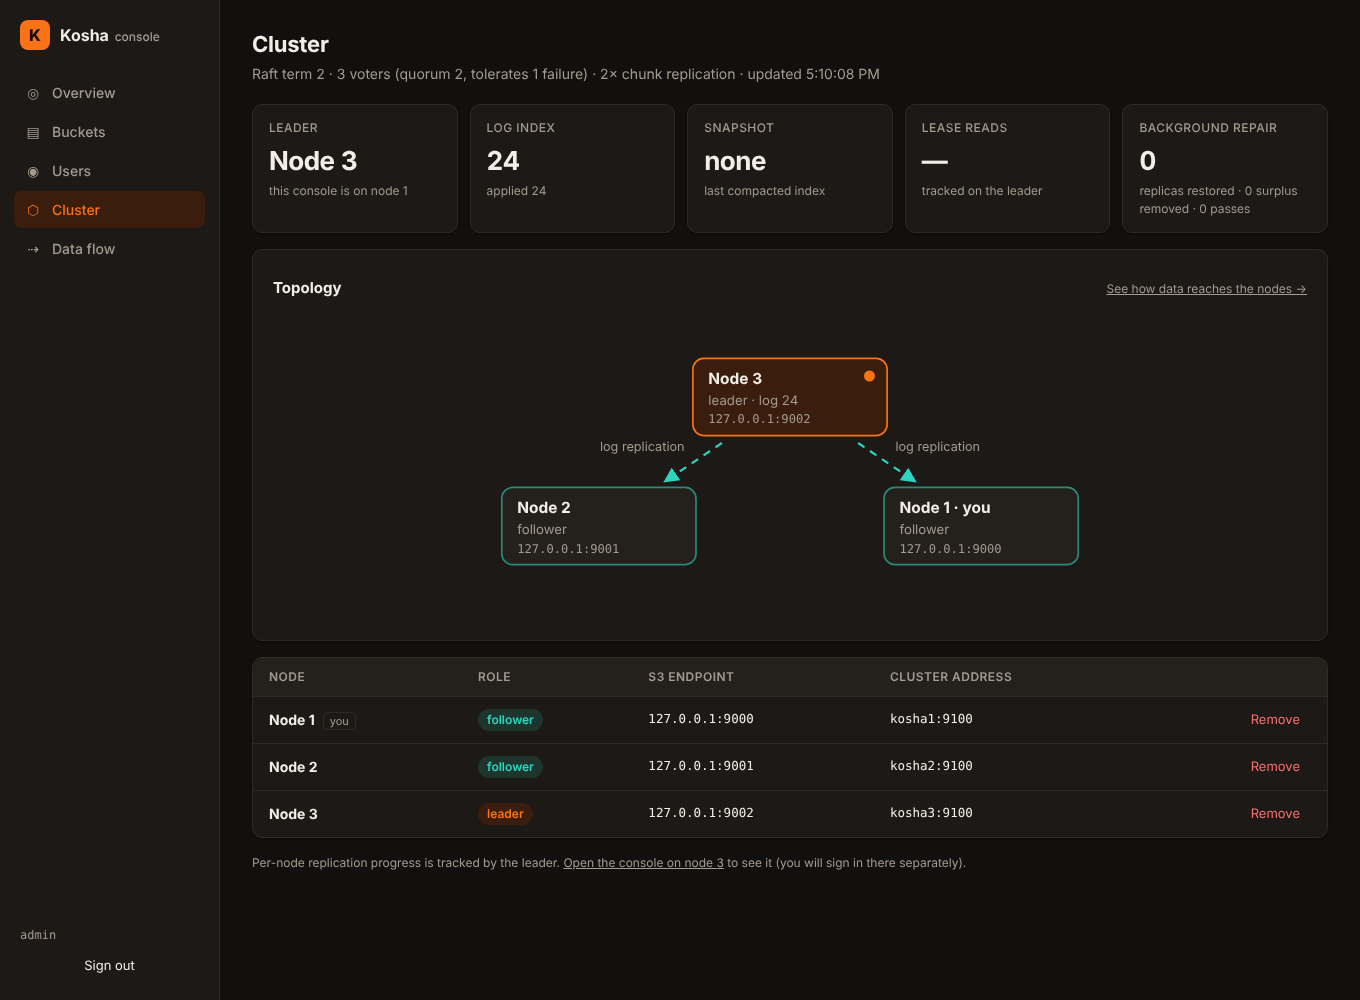
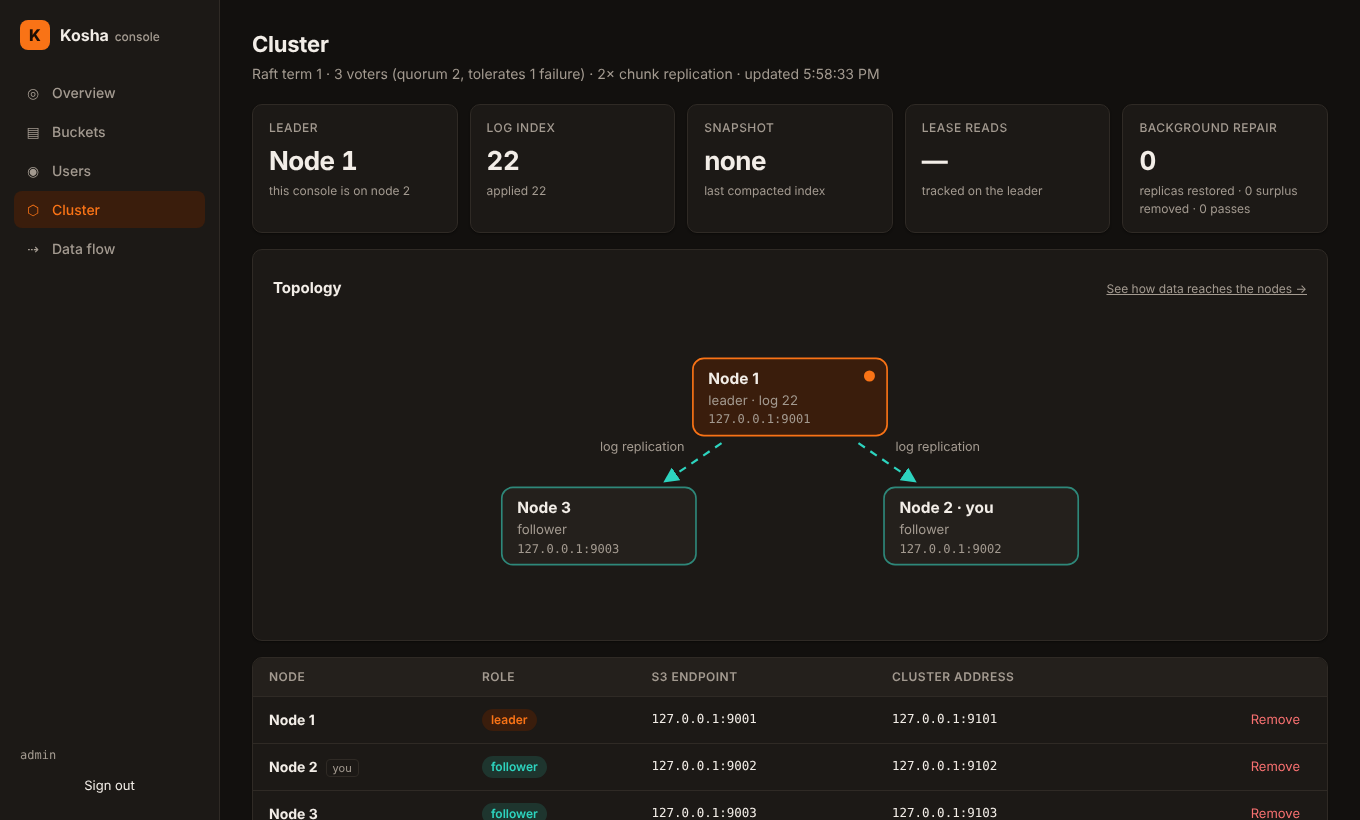
README: step-by-step guide to using Kosha, with fresh console screenshots
Section 4 becomes "How to use Kosha": sign in, read the overview,
create a bucket, upload, browse and share files, give each app its own
keys and connect it, and watch the cluster and data flow. It ends with
a table of everyday tasks. Screenshots of every console page were
retaken from a 3-node cluster, adding the sign-in, buckets and cluster
pages.

Claude-Session: https://claude.ai/code/session_01UQLffMvno3KtUTbbyZzrop

diff --git a/README.md b/README.md
@@ -9,6 +9,10 @@ with io_uring.
 
 ![Kosha console](docs/images/console-overview.png)
 
+**New to Kosha?** [Install it](#1-install), [start a server](#2-run-a-single-node),
+then follow [How to use Kosha](#4-how-to-use-kosha): a step-by-step tour of
+the web console, from signing in to sharing files and giving apps their own keys.
+
 | Area | How Kosha does it |
 |---|---|
 | Unit of storage | **content-defined chunks** (FastCDC) |
@@ -188,7 +192,7 @@ Garage [S3 compatibility](https://garagehq.deuxfleurs.fr/documentation/reference
 [Install](#1-install) ·
 [Run a server](#2-run-a-single-node) ·
 [Read and write data](#3-read-and-write-data) ·
-[Web console](#4-web-console) ·
+[How to use](#4-how-to-use-kosha) ·
 [Cluster](#5-run-a-cluster) ·
 [Monitoring](#6-monitoring) ·
 [Security](#7-security) ·
@@ -488,46 +492,155 @@ curl --aws-sigv4 "aws:amz:us-east-1:s3" --user admin:change-me-please \
      http://localhost:9000/photos/report.pdf -o report.pdf
 ```
 
-## 4. Web console
+## 4. How to use Kosha
 
-Open **`http://<server>:9000/_kosha/ui/`** and sign in with the access key and
-secret. The console talks to the ordinary S3 API: requests are SigV4-signed in
-your browser, so there are no server-side sessions. It works over plain HTTP
-too.
+Kosha has two front doors on the same port:
 
-- **Overview**: object counts, logical vs on-disk size, and how much dedup and
-  compression saved. Also shows the I/O backend and cluster role.
-- **Buckets and object browser**: create and delete buckets, edit bucket
-  policies, browse folders, drag-and-drop uploads with progress, object
-  details, downloads, expiring share links (1 hour / 1 day / 7 days), and
-  bulk delete.
-- **Users** (root keys only): create users with a starting policy, show their
-  keys once, edit policies, disable, rotate secrets, delete.
-- **Cluster**: a live map of the members (leader, followers, unreachable
-  nodes, and how far each follower is behind the leader's log), plus the
-  Raft term, log and applied indexes, lease-read hit rate and
-  background-repair counters, refreshed every 2 seconds. Nodes can be
-  removed from here.
-- **Data flow** (cluster mode): how each recent write reached the cluster,
-  drawn as a sequence diagram:
-  1. the client's request to the node that received it;
-  2. the object split into chunks, and the nodes each chunk was stored on
-     (or its erasure-coded shards);
-  3. the metadata command forwarded to the leader;
-  4. the Raft log entry and its commit time;
-  5. which nodes have applied it.
+- **the web console** at `http://<server>:9000/_kosha/ui/`, for people: buckets,
+  files, users and the cluster, in a browser;
+- **the S3 API** at `http://<server>:9000`, for programs: backup tools, apps,
+  scripts and SDKs (see [Read and write data](#3-read-and-write-data)).
 
-  Every node records the last 200 writes it received, in memory, and the
-  page merges them from all members. A button sends a test write of a
-  chosen size.
+Both use the same buckets, files and keys. A typical first session:
 
-| Object browser | Cluster (dark mode) |
+### Step 1: Sign in
+
+Open `http://<server>:9000/_kosha/ui/` and sign in with the access key and
+secret the server was started with (`KOSHA_ACCESS_KEY` and
+`KOSHA_SECRET_KEY`). These are the **root keys**: they can do everything,
+so keep them for administration. The console signs every request in your
+browser (SigV4), so the secret never leaves the tab and there are no server
+sessions. **Advanced** sets the region, which Kosha accepts whatever its
+value. The console works over plain HTTP and on phones.
+
+![Sign-in page](docs/images/console-login.png)
+
+### Step 2: Check the overview
+
+The **Overview** page shows how many objects you store, how much data
+clients uploaded (logical size) and how much it takes on disk. The bars show
+where the savings come from: identical chunks stored once (dedup) and
+compression where it helps. The subtitle names the node you're on, its role
+in a cluster and the disk I/O backend.
+
+![Overview page](docs/images/console-overview.png)
+
+### Step 3: Create a bucket
+
+A bucket is a top-level folder with its own name and access rules. On
+**Buckets**, type a name (3–63 characters: lowercase letters, digits, `-`
+and `.`) and click **Create bucket**. Each bucket has:
+
+- **Policy**: who may access it without keys. The editor starts from a
+  public-read template, for serving a static website or shared downloads;
+  save it only if that is what you want. Invalid JSON can't be saved, and
+  the server rejects rules that don't fit the bucket.
+- **Delete**: only works on an empty bucket.
+
+![Buckets page](docs/images/console-buckets.png)
+
+### Step 4: Upload, browse and share files
+
+Click a bucket to browse it.
+
+- **Upload**: click **Upload** or drag files onto the list. Each file shows
+  its progress. For very large files or whole folders, the AWS CLI (below)
+  is faster: it uploads in parallel parts and can resume.
+- **Folders**: **New folder** creates one; click a folder to open it and the
+  path at the top to go back. Folders are just key prefixes (`2026/holiday.jpg`).
+- **Details**: click a file to see its size, type, date and ETag.
+  **Download** saves it and **Open** shows it in a new tab.
+- **Share**: pick how long a link stays valid (1 hour, 1 day or 7 days) and
+  click **Copy link**. Anyone with the link can download that one file until
+  it expires, without an account.
+- **Delete**: tick files (or the header box for all) and click **Delete**.
+
+![Object browser](docs/images/console-browser.png)
+
+Uploading the same content twice costs nothing extra: in this example a copy
+of `holiday-beach.jpg` in another bucket is stored once, which is part of the
+saving on the Overview page.
+
+### Step 5: Give each app its own keys
+
+Don't put the root keys in apps. On **Users**, create a user per app or
+person, with a starting policy:
+
+| Starting policy | What the user can do |
 |---|---|
-| ![](docs/images/console-browser.png) | ![](docs/images/console-cluster-dark.png) |
+| Read-only | list and download from every bucket |
+| Home directory | read and write only under `home/<user name>/` in bucket `home` |
+| No policy | nothing until you attach one with **Policy** |
+
+The new keys are shown **once**: copy them into the app straight away. Later
+you can edit the user's **Policy** (standard AWS IAM JSON), **Disable** it
+temporarily, **Rotate** its secret if it leaks, or **Delete** it.
+
+![Users page](docs/images/console-users.png)
+
+Then point the app at Kosha with those keys. Most S3 tools need four
+settings:
+
+```sh
+export AWS_ACCESS_KEY_ID=<access key>  AWS_SECRET_ACCESS_KEY=<secret key>
+export AWS_DEFAULT_REGION=us-east-1     # any value works
+aws --endpoint-url http://<server>:9000 s3 sync ~/Pictures s3://photos/   # e.g. back up a folder
+```
+
+In SDKs and apps the same settings are the endpoint URL, the two keys, a
+region, and **path-style addressing** (`force_path_style`, "use path-style
+URLs"). Examples for the AWS CLI, Rust, Python, curl and more are in
+[Read and write data](#3-read-and-write-data).
+
+### Step 6: Watch the cluster (cluster mode)
+
+**Cluster** shows the members live, refreshed every 2 seconds:
+
+- which node leads and how far each follower is behind its log;
+- unreachable nodes, marked as such;
+- the Raft term, log and snapshot indexes, lease-read hit rate and
+  background-repair counters.
+
+**Remove** takes a node out for good; its data is re-replicated to the
+others.
+
+![Cluster page](docs/images/console-cluster.png)
+
+**Data flow** shows how each recent write reached the cluster, as a
+sequence diagram:
+
+1. the client's request to the node that received it;
+2. the object split into chunks, and the nodes each chunk was stored on
+   (or its erasure-coded shards);
+3. the metadata command forwarded to the leader;
+4. the Raft log entry and its commit time;
+5. which nodes have applied it.
+
+Pick a bucket and size and click **Send** to watch a test write. Every node
+keeps its last 200 writes in memory, and the page merges them from all
+members, so the list starts empty after a restart.
 
 ![Data flow page](docs/images/console-dataflow.png)
 
-![Users page](docs/images/console-users.png)
+The console follows your system's light or dark theme:
+
+![Cluster page in dark mode](docs/images/console-cluster-dark.png)
+
+### Everyday tasks
+
+| I want to… | Do this |
+|---|---|
+| back up a folder from my laptop | `aws --endpoint-url http://<server>:9000 s3 sync ~/Documents s3://backups/laptop/` (rerun it to copy only changes) |
+| share one file with someone | open the file in the console, pick a duration, **Copy link** |
+| host a static website | upload it to a bucket, then **Policy** → save the public-read template |
+| give an app limited access | **Users** → create a user with a starting policy, put its keys in the app |
+| see how much space dedup saves | **Overview** |
+| keep old versions or block deletes | turn on [versioning or Object Lock](#versioning-object-lock-and-lifecycle) |
+| delete old files automatically | add a [lifecycle rule](#versioning-object-lock-and-lifecycle) |
+| move rarely read data to cheaper storage | set up the [cold tier](#cold-tier) |
+| find out whether the cluster is healthy | **Cluster**: one leader, every node reachable and in sync |
+| replace a failed node | **Cluster** → **Remove** it, then start a new node with `--join` ([Run a cluster](#5-run-a-cluster)) |
+| check the server from a script | `curl http://<server>:9000/_kosha/health`, metrics in [Monitoring](#6-monitoring) |
 
 ## 5. Run a cluster
 
